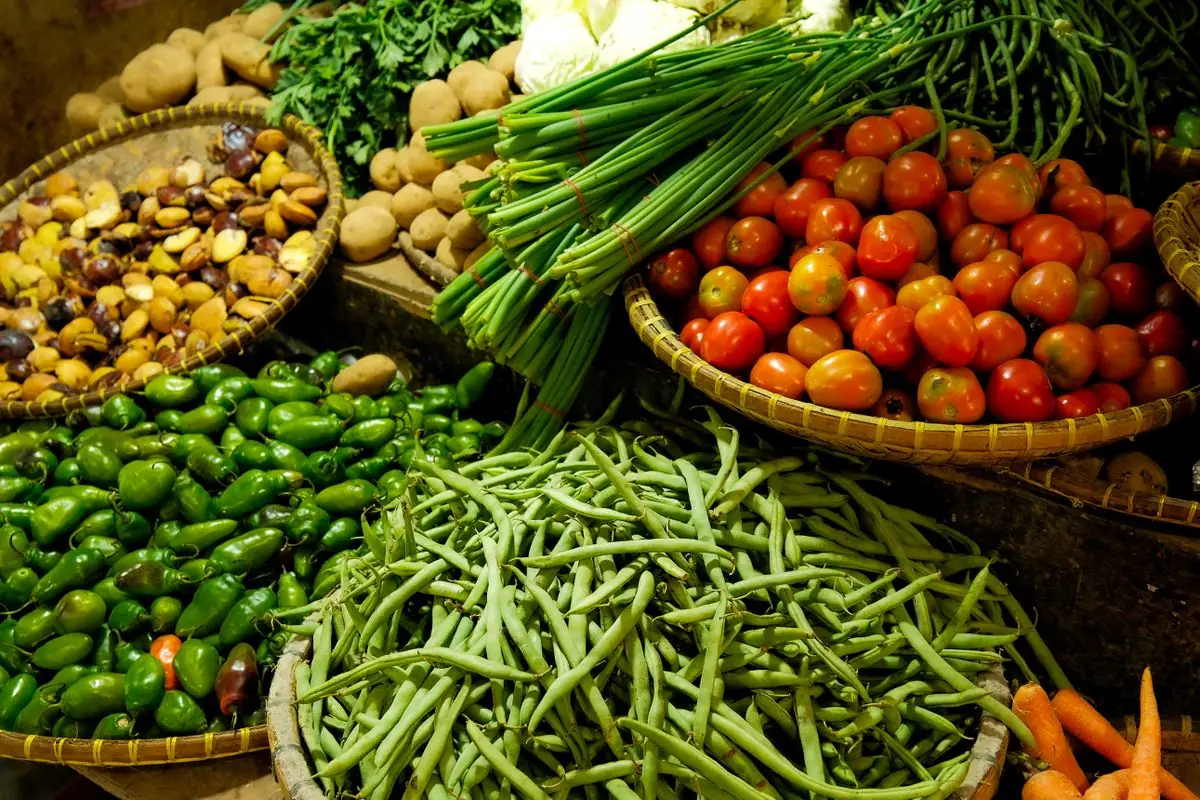
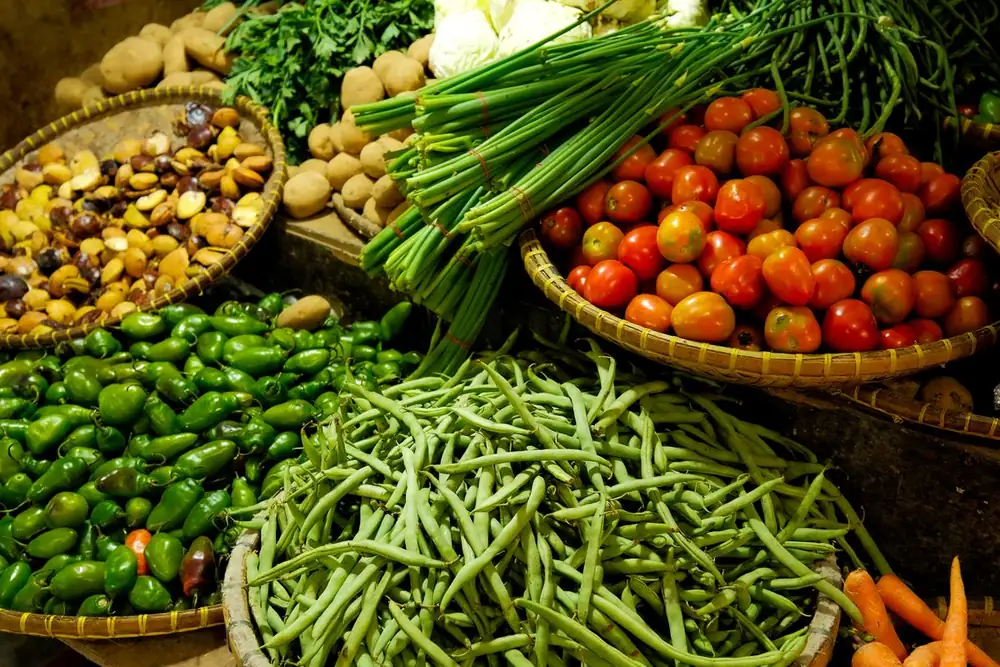
Fotos: máximo 100 KB cada una para el celular
El script baja la calidad y luego el tamaño hasta quedar bajo 100 KB.
Portada 235 → 98 KB, banner de verduras 138 → 99 KB.

Claude-Session: https://claude.ai/code/session_01HrfJbXoRQd1SMLK76FhTiX

Changed region(s): [[0.372, 0.7496, 0.403, 0.7796]]

diff --git a/src/data/photos.ts b/src/data/photos.ts
@@ -8,12 +8,14 @@ export const PHOTOS = {
     "bonito",
     "brocoli",
     "camote",
+    "carne-guiso",
     "carne-molida",
     "cebolla-roja",
     "choclo",
     "chuleta-cerdo",
     "culantro",
     "fresa",
+    "hierbabuena",
     "huevos",
     "jurel",
     "lechuga",
